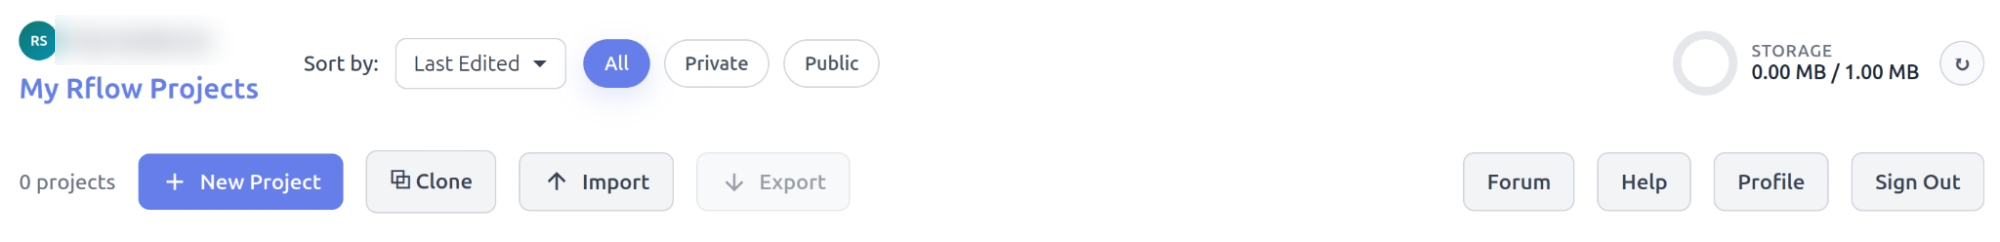
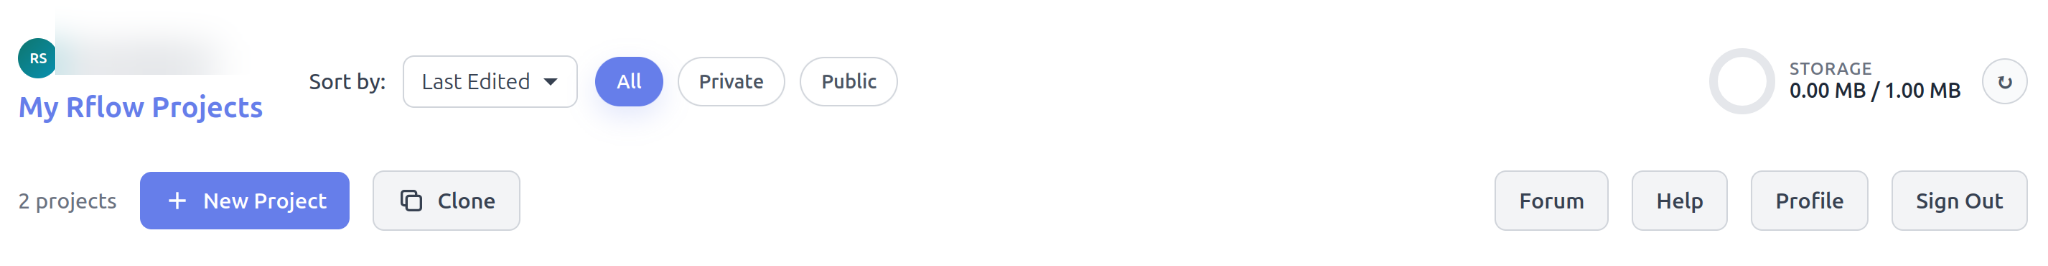
Built site for gh-pages

diff --git a/tutorials/tutorial_1b.html b/tutorials/tutorial_1b.html
@@ -199,6 +199,11 @@ ul.task-list li input[type="checkbox"] {
    
   <ul>
   <li><a href="#learning-objectives" id="toc-learning-objectives" class="nav-link active" data-scroll-target="#learning-objectives">Learning Objectives</a></li>
+  <li><a href="#step-1-clone-the-rflow-project" id="toc-step-1-clone-the-rflow-project" class="nav-link" data-scroll-target="#step-1-clone-the-rflow-project">Step 1: Clone the Rflow project</a></li>
+  <li><a href="#step-2-import-the-data" id="toc-step-2-import-the-data" class="nav-link" data-scroll-target="#step-2-import-the-data">Step 2: Import the data</a></li>
+  <li><a href="#step-3-calculate-summary-statistics" id="toc-step-3-calculate-summary-statistics" class="nav-link" data-scroll-target="#step-3-calculate-summary-statistics">Step 3: Calculate summary statistics</a></li>
+  <li><a href="#step-4-create-a-scatterplot" id="toc-step-4-create-a-scatterplot" class="nav-link" data-scroll-target="#step-4-create-a-scatterplot">Step 4: Create a scatterplot</a></li>
+  <li><a href="#step-5-save-your-workflow-and-export-an-r-script" id="toc-step-5-save-your-workflow-and-export-an-r-script" class="nav-link" data-scroll-target="#step-5-save-your-workflow-and-export-an-r-script">Step 5: Save your workflow and export an R script</a></li>
   </ul>
 </nav>
     </div>
@@ -224,9 +229,221 @@ ul.task-list li input[type="checkbox"] {
 </header>
 
 
-<section id="learning-objectives" class="level3">
-<h3 class="anchored" data-anchor-id="learning-objectives">Learning Objectives</h3>
-<p>Coming soon…</p>
+<section id="learning-objectives" class="level1">
+<h1>Learning Objectives</h1>
+<p>This is a very simple tutorial to illustrate how to display continuous data. The data is similar to that used in Tutorial 1A, but now you have information about the weight of the chicks on different days. Thus you can visualise how the weight of the chicks changes over time. Begin by downloading the data file <a href="data_workflows/chick_growth.csv" download="">chick_growth.csv</a> The dataset has 3 columns:</p>
+<ul>
+<li><code>weight</code> - the weight of the chick in grams</li>
+<li><code>time</code> - the time in days since the chick hatched</li>
+<li><code>diet</code> - the diet that the chick was fed (A to</li>
+</ul>
+</section>
+<section id="step-1-clone-the-rflow-project" class="level1">
+<h1>Step 1: Clone the Rflow project</h1>
+<p>Hit the “Clone” button in the top right corner of this page to create a copy of this Rflow tutorial 1b in your own account. You can then edit the project and run the code. Once it is cloned, go back to your Rflow projects and open the tutorial:</p>
+<div class="quarto-figure quarto-figure-center">
+<figure class="figure">
+<p><img src="figs/tutorial_1b_workflow.png" class="img-fluid quarto-figure quarto-figure-center figure-img" style="width:50.0%"></p>
+</figure>
+</div>
+<p>You can see that the project is very simple with just three nodes:</p>
+<ul>
+<li>Input CSV - imports the data from the CSV file</li>
+<li>Summary - calculates summary statistics for the data</li>
+<li>Scatterplot - creates a scatterplot of the data</li>
+</ul>
+</section>
+<section id="step-2-import-the-data" class="level1">
+<h1>Step 2: Import the data</h1>
+<p>The first node is an Input CSV node. Click on the node to open it and then click the “Choose file” button to select the <code>chick_growth.csv</code> file that you downloaded earlier. Once you have selected the file, click “Run” to import the data. The Input, Output and R Code panels are shown below:</p>
+<div class="quarto-layout-panel" data-layout-ncol="3">
+<div class="quarto-layout-row">
+<div class="quarto-layout-cell" style="flex-basis: 33.3%;justify-content: flex-start;">
+<div class="quarto-figure quarto-figure-center">
+<figure class="figure">
+<p><img src="figs/tutorial_1b_inputcsv_input_panel.png" class="img-fluid figure-img"></p>
+<figcaption>Input panel</figcaption>
+</figure>
+</div>
+</div>
+<div class="quarto-layout-cell" style="flex-basis: 33.3%;justify-content: flex-start;">
+<div class="quarto-figure quarto-figure-center">
+<figure class="figure">
+<p><img src="figs/tutorial_1b_inputcsv_output_panel.png" class="img-fluid figure-img"></p>
+<figcaption>Output panel</figcaption>
+</figure>
+</div>
+</div>
+<div class="quarto-layout-cell" style="flex-basis: 33.3%;justify-content: flex-start;">
+<div class="quarto-figure quarto-figure-center">
+<figure class="figure">
+<p><img src="figs/tutorial_1b_inputcsv_r_panel.png" class="img-fluid figure-img"></p>
+<figcaption>R code panel</figcaption>
+</figure>
+</div>
+</div>
+</div>
+</div>
+<p>You can see that the data has been imported successfully and is displayed in the Output panel. The R code used to import the data is shown in the R Code panel. You can also see that the data has 3 columns and 60 rows.</p>
+</section>
+<section id="step-3-calculate-summary-statistics" class="level1">
+<h1>Step 3: Calculate summary statistics</h1>
+<p>The next node is a Summary node. Click on the node to open it and then click “Run” to calculate summary statistics for the data. The Input, Output and R Code panels are shown below:</p>
+<div class="quarto-layout-panel" data-layout-ncol="3">
+<div class="quarto-layout-row">
+<div class="quarto-layout-cell" style="flex-basis: 33.3%;justify-content: flex-start;">
+<div class="quarto-figure quarto-figure-center">
+<figure class="figure">
+<p><img src="figs/tutorial_1b_summary_input_panel.png" class="img-fluid figure-img"></p>
+<figcaption>Input panel</figcaption>
+</figure>
+</div>
+</div>
+<div class="quarto-layout-cell" style="flex-basis: 33.3%;justify-content: flex-start;">
+<div class="quarto-figure quarto-figure-center">
+<figure class="figure">
+<p><img src="figs/tutorial_1b_summary_output_panel.png" class="img-fluid figure-img"></p>
+<figcaption>Output panel</figcaption>
+</figure>
+</div>
+</div>
+<div class="quarto-layout-cell" style="flex-basis: 33.3%;justify-content: flex-start;">
+<div class="quarto-figure quarto-figure-center">
+<figure class="figure">
+<p><img src="figs/tutorial_1b_summary_r_panel.png" class="img-fluid figure-img"></p>
+<figcaption>R code panel</figcaption>
+</figure>
+</div>
+</div>
+</div>
+</div>
+<p>Note that you have a mixture of continuous and categorical data; the <code>weight</code> is your response variable (continuous) whilst <code>time</code> and <code>diet</code> are your explanatory variables (continuous and categorical respectively).</p>
+</section>
+<section id="step-4-create-a-scatterplot" class="level1">
+<h1>Step 4: Create a scatterplot</h1>
+<p>The final node is a Scatterplot node. Click on the node to open it and then click “Run” to create a scatterplot of the data. The Input, Output and R Code panels are shown below:</p>
+<div class="quarto-layout-panel" data-layout-ncol="3">
+<div class="quarto-layout-row">
+<div class="quarto-layout-cell" style="flex-basis: 33.3%;justify-content: flex-start;">
+<div class="quarto-figure quarto-figure-center">
+<figure class="figure">
+<p><img src="figs/tutorial_1b_scatterplot_input_panel.png" class="img-fluid figure-img"></p>
+<figcaption>Input panel</figcaption>
+</figure>
+</div>
+</div>
+<div class="quarto-layout-cell" style="flex-basis: 33.3%;justify-content: flex-start;">
+<div class="quarto-figure quarto-figure-center">
+<figure class="figure">
+<p><img src="figs/tutorial_1b_scatterplot_output_panel.png" class="img-fluid figure-img"></p>
+<figcaption>Output panel</figcaption>
+</figure>
+</div>
+</div>
+<div class="quarto-layout-cell" style="flex-basis: 33.3%;justify-content: flex-start;">
+<div class="quarto-figure quarto-figure-center">
+<figure class="figure">
+<p><img src="figs/tutorial_1b_scatterplot_r_panel.png" class="img-fluid figure-img"></p>
+<figcaption>R code panel</figcaption>
+</figure>
+</div>
+</div>
+</div>
+</div>
+<p>Obviously, whilst this scatterplot shows the relationship between weight and time, it is not very informative as it ignores the chick diet. You can improve the scatterplot by adding a colour label. Modify the Scatterplot node by clicking on the “Colour variable” dropdown and selecting <code>diet</code>. In the “X axis label” box enter “Time”. In the “Y axis label” box enter “Chick Weight (g)”. Then click “Run” to update the scatterplot. The updated scatterplot is shown below:</p>
+<div class="quarto-layout-panel" data-layout-ncol="3">
+<div class="quarto-layout-row">
+<div class="quarto-layout-cell" style="flex-basis: 33.3%;justify-content: flex-start;">
+<div class="quarto-figure quarto-figure-center">
+<figure class="figure">
+<p><img src="figs/tutorial_1b_scatterplot2_input_panel.png" class="img-fluid figure-img"></p>
+<figcaption>Input panel</figcaption>
+</figure>
+</div>
+</div>
+<div class="quarto-layout-cell" style="flex-basis: 33.3%;justify-content: flex-start;">
+<div class="quarto-figure quarto-figure-center">
+<figure class="figure">
+<p><img src="figs/tutorial_1b_scatterplot2_output_panel.png" class="img-fluid figure-img"></p>
+<figcaption>Output panel</figcaption>
+</figure>
+</div>
+</div>
+<div class="quarto-layout-cell" style="flex-basis: 33.3%;justify-content: flex-start;">
+<div class="quarto-figure quarto-figure-center">
+<figure class="figure">
+<p><img src="figs/tutorial_1b_scatterplot2_r_panel.png" class="img-fluid figure-img"></p>
+<figcaption>R code panel</figcaption>
+</figure>
+</div>
+</div>
+</div>
+</div>
+<p>Finally, we know the chick weights are increasing over time, so it is sensible to add lines to the scatterplot to indicate this. As we are not fitting a statistical model to the data, we will simply use straight lines to connect each point to the next point. Click the “Connect points with lines” checkbox and then click “Run” to update the scatterplot. The final scatterplot is shown below:</p>
+<div class="quarto-layout-panel" data-layout-ncol="3">
+<div class="quarto-layout-row">
+<div class="quarto-layout-cell" style="flex-basis: 33.3%;justify-content: flex-start;">
+<div class="quarto-figure quarto-figure-center">
+<figure class="figure">
+<p><img src="figs/tutorial_1b_scatterplot3_input_panel.png" class="img-fluid figure-img"></p>
+<figcaption>Input panel</figcaption>
+</figure>
+</div>
+</div>
+<div class="quarto-layout-cell" style="flex-basis: 33.3%;justify-content: flex-start;">
+<div class="quarto-figure quarto-figure-center">
+<figure class="figure">
+<p><img src="figs/tutorial_1b_scatterplot3_output_panel.png" class="img-fluid figure-img"></p>
+<figcaption>Output panel</figcaption>
+</figure>
+</div>
+</div>
+<div class="quarto-layout-cell" style="flex-basis: 33.3%;justify-content: flex-start;">
+<div class="quarto-figure quarto-figure-center">
+<figure class="figure">
+<p><img src="figs/tutorial_1b_scatterplot3_r_panel.png" class="img-fluid figure-img"></p>
+<figcaption>R code panel</figcaption>
+</figure>
+</div>
+</div>
+</div>
+</div>
+<p>Whilst it is tempting to connect the points with fitted straight lines or curves, we generally recommend that you do not do this until you have fitted a statistical model to the data. This is because the fitted lines or curves may not be appropriate for the data and can be misleading.</p>
+</section>
+<section id="step-5-save-your-workflow-and-export-an-r-script" class="level1">
+<h1>Step 5: Save your workflow and export an R script</h1>
+<p>The Rflow workflow is autosaved every 30 seconds along with the R object <code>chick_dat</code>, and you can manually save the workflow at any time. If you want to use the workflow externally from Rflow, click on the <strong>Download R</strong> button. On most computers this will be downloaded to your “Downloads” folder. The following instructions are almost identical to those in Tutorial 1A, but are repeated here for completeness. You can run the R script in VS Code, Positron or RStudio.</p>
+<div class="tabset-margin-container"></div><div class="panel-tabset">
+<ul class="nav nav-tabs" role="tablist"><li class="nav-item" role="presentation"><a class="nav-link active" id="tabset-1-1-tab" data-bs-toggle="tab" data-bs-target="#tabset-1-1" role="tab" aria-controls="tabset-1-1" aria-selected="true" href="">VS Code</a></li><li class="nav-item" role="presentation"><a class="nav-link" id="tabset-1-2-tab" data-bs-toggle="tab" data-bs-target="#tabset-1-2" role="tab" aria-controls="tabset-1-2" aria-selected="false" href="">Positron</a></li><li class="nav-item" role="presentation"><a class="nav-link" id="tabset-1-3-tab" data-bs-toggle="tab" data-bs-target="#tabset-1-3" role="tab" aria-controls="tabset-1-3" aria-selected="false" href="">RStudio</a></li></ul>
+<div class="tab-content">
+<div id="tabset-1-1" class="tab-pane active" role="tabpanel" aria-labelledby="tabset-1-1-tab">
+<ol type="1">
+<li>Copy the downloaded R script to your working folder (directory). Also ensure that the <code>chick_growth.csv</code> file is in the same working folder.</li>
+<li>Open VS Code and click on the Extensions button on the left sidebar. Search for “R Extension for Visual Studio Code” and install the R extension.</li>
+<li>Open the R script in VS Code. You should see the R code that was generated by Rflow.</li>
+<li>The R script uses the <code>ggplot2</code> package for plotting. You may need to install this into R if you have not already done so, via <code>install.packages("ggplot2")</code>.</li>
+<li>You can run the entire script by clicking on the “Run” button at the top of the VS Code window, or you can run individual lines or sections of code by highlighting them and pressing <code>Ctrl + Enter</code> (or <code>Cmd + Enter</code> on Mac). The output will be displayed in the R terminal within VS Code.</li>
+</ol>
+</div>
+<div id="tabset-1-2" class="tab-pane" role="tabpanel" aria-labelledby="tabset-1-2-tab">
+<ol type="1">
+<li>Copy the downloaded R script to your working folder (directory). Also ensure that the <code>chick_growth.csv</code> file is in the same working folder.</li>
+<li>Open Positron and click on the “File” menu, then select “Open File” and navigate to your working folder to open the R script.</li>
+<li>The R script uses the <code>ggplot2</code> package for plotting. You may need to install this into R if you have not already done so, via <code>install.packages("ggplot2")</code>. Recent versions of Positron should detect if this needs installing and prompt you to do so.</li>
+<li>You can run the entire script by clicking on the “Source” button at the top of the Positron window, or you can run individual lines or sections of code by highlighting them and pressing <code>Ctrl + Enter</code> (or <code>Cmd + Enter</code> on Mac). The output will be displayed in the R console within Positron.</li>
+</ol>
+</div>
+<div id="tabset-1-3" class="tab-pane" role="tabpanel" aria-labelledby="tabset-1-3-tab">
+<ol type="1">
+<li>Copy the downloaded R script to your working folder (directory). Also ensure that the <code>chick_growth.csv</code> file is in the same working folder.</li>
+<li>Open RStudio and click on the “File” menu, then select “Open File” and navigate to your working folder to open the R script.</li>
+<li>The R script uses the <code>ggplot2</code> package for plotting. Recent versions of RStudio should detect if this needs installing and prompt you to do so. If not, you can install it manually via <code>install.packages("ggplot2")</code>.</li>
+<li>RStudio needs to know in which folder it is operating. You can set the working directory by clicking on “Session” &gt; “Set Working Directory” &gt; “Choose Directory…” and selecting your working folder. Another option is to create an RStudio project in your working folder, which will automatically set the working directory to that folder. If you obtain a <code>File not found</code> when trying to import the <code>chick_growth.csv</code> file, this is likely the cause. You can check the current working directory by running <code>getwd()</code> in the R console.</li>
+<li>Run the entire script by clicking on the “Source” button at the top of the RStudio window, or you can run individual lines or sections of code by highlighting them and pressing <code>Ctrl + Enter</code> (or <code>Cmd + Enter</code> on Mac). The output will be displayed in the R console within RStudio.</li>
+</ol>
+</div>
+</div>
+</div>
 
 
 </section>

diff --git a/tutorials/interface.html b/tutorials/interface.html
@@ -260,11 +260,10 @@ ul.task-list li input[type="checkbox"] {
 <ul>
 <li><strong>New Project</strong>: Create a new Rflow project. You will be prompted to enter a name for your project, a short description, and whether you want it to be a private project (default) or public project.</li>
 <li><strong>Clone</strong>: This allows you to clone an existing Public Rflow project, or Tutorial project, into your own Rflow account where you can edit it. You cannot directly edit Public Rflow projects or Tutorial projects. When you Clone a project you also import that project’s data, as well as its workflow.</li>
-<li><strong>Import</strong>: This allows you to import an Rflow project format file (.json format) into your Rflow account. Rflow Project Format files contain the workflow structure, but <strong>not</strong> the data. They can be useful if you want to share a workflow with another Rflow user without making it public.</li>
-<li><strong>Export</strong>: The reverse of Import, this generates an Rflow Project Format File that you can share with another Rflow user (e.g.&nbsp;via email). Again, the data is not included in the exported file, only the workflow structure, so you have to share any data separately.</li>
 <li><strong>Forum</strong>: Provides access to the Rflow Community Forum for asking questions, sharing ideas, and getting help from other Rflow users. Note: this is currently hosted on Discourse, and you will need to create a free Discourse account to post questions or comments. You can also browse the forum without an account.</li>
 <li><strong>Help</strong>: Access the main Rflow documentation pages</li>
-<li><strong>Account</strong>: Access your Rflow account settings, including changing your password, upgrade to a paid Standard account (or downgrade to a Free account).</li>
+<li><strong>Profile</strong>: Access your Rflow account settings, including changing your password, upgrade to a paid Standard account (or downgrade to a Free account).</li>
+<li><strong>Sign out</strong>: Sign out of Rflow. You will need to sign back in to continue working on your projects.</li>
 </ul>
 <p>At the top right is an indicator of your current disk usage relative to your account’s disk quota (press the refresh button to update information).</p>
 </section>
@@ -298,7 +297,7 @@ ul.task-list li input[type="checkbox"] {
 <p>Allows you to select Rflow workflow nodes from dropdown menus. These are grouped into:</p>
 <section id="data-import-export-nodes" class="level3">
 <h3 class="anchored" data-anchor-id="data-import-export-nodes">Data import / export nodes</h3>
-<p>You will typically start your workflow with a data import node, which allows you to import data from a CSV file, or from an Rflow project dataset. You can also export your workflow results to a CSV file, or to an Rflow project dataset.</p>
+<p>You will typically start your workflow with a data import node, which allows you to import data from a CSV file. If you Clone an existing Rflow project, you may find that the data has already been imported. <strong>Note</strong> : if you attempt to re-run a data import node it will expect to have access to the original CSV file.</p>
 </section>
 <section id="models" class="level3">
 <h3 class="anchored" data-anchor-id="models">Models</h3>

diff --git a/terms_and_conditions.html b/terms_and_conditions.html
@@ -327,7 +327,7 @@ ul.task-list li input[type="checkbox"] {
 <p>11.1 RSDSL owns or is the licensee of all Intellectual Property Rights in the Service, the Website, and all material published on them, including without limitation trademarks, logos, graphics, photographs, designs, animations, videos, documentation, R scripts generated by the platform, and the Rflow application code.</p>
 <p>11.2 Rflow is a registered trademark of RS Data Science Limited. No licence to use the Rflow trademark is granted by these Terms or by Your use of the Service.</p>
 <p>11.3 You may not alter, remove, or obscure any copyright notices, trademark legends, or other proprietary markings on any material from the Service.</p>
-<p>11.4 You may download Projects in JSON format and annotated R scripts in R format for Your own personal, non-commercial use. These exported files remain Your Content (subject to clause 10.1) but the underlying R code templates, node logic, and structural elements generated by Rflow remain the property of RSDSL.</p>
+<p>11.4 You may download annotated R scripts in R format for Your own personal, non-commercial use. These exported files remain Your Content (subject to clause 10.1) but the underlying R code templates, node logic, and structural elements generated by Rflow remain the property of RSDSL.</p>
 <p>11.5 You must not use any part of the material on the Website or Service for commercial purposes without obtaining a written licence from RSDSL.</p>
 <table class="caption-top table">
 <tbody>

diff --git a/tutorials/tutorial_1a.html b/tutorials/tutorial_1a.html
@@ -289,7 +289,7 @@ ul.task-list li input[type="checkbox"] {
 <p><img src="figs/tutorial_1a_rflow_clone.png" class="img-fluid quarto-figure quarto-figure-center figure-img" style="width:25.0%"></p>
 </figure>
 </div>
-<p>After clicking the “Clone” button, click on the “My Projects” button to display your own Rflow projects. You should see the tutorial listed as “Tutorial 1A (Copy)”. You can click its Edit button if you want to change its name or description. When ready, click on the “Open” button and you should see the pre-prepared workflow:</p>
+<p>After clicking the “Clone” button, click on the “Back to My Projects” button to display your own Rflow projects. You should see the tutorial listed as “Tutorial 1A (Copy)”. You can click its Edit button if you want to change its name or description. When ready, click on the “Open” button and you should see the pre-prepared workflow:</p>
 <div class="quarto-figure quarto-figure-center">
 <figure class="figure">
 <p><img src="figs/tutorial_1a_workflow.png" class="img-fluid quarto-figure quarto-figure-center figure-img" style="width:50.0%"></p>

diff --git a/faq/index.html b/faq/index.html
@@ -271,7 +271,7 @@ ul.task-list li input[type="checkbox"] {
 </div>
 <div id="callout-5" class="callout-5-contents callout-collapse collapse">
 <div class="callout-body-container callout-body">
-<p>No.&nbsp;If you want to export your Rflow workflow for use in an IDE such as VS Code, RStudio or Positron, you need to use the “Download R Code” button in the Rflow workflow editor. This will give you a fully reproducible R script that you can run in any R IDE. The “Export” button on the Rflow projects page is for sharing your workflow with specific other Rflow users if you do not want to make it public.</p>
+<p>No.&nbsp;If you want to export your Rflow workflow for use in an IDE such as VS Code, RStudio or Positron, you need to use the “Download R Code” button in the Rflow workflow editor. This will give you a fully reproducible R script that you can run in any R IDE.</p>
 </div>
 </div>
 </div>

diff --git a/docs/pricing.html b/docs/pricing.html
@@ -166,11 +166,6 @@ ul.task-list li input[type="checkbox"] {
 <p>Compare Rflow plans and choose the option that suits your work.</p>
 <div class="pricing-comparison">
 <table class="caption-top table">
-<colgroup>
-<col style="width: 33%">
-<col style="width: 33%">
-<col style="width: 33%">
-</colgroup>
 <thead>
 <tr class="header">
 <th>Feature</th>
@@ -186,7 +181,7 @@ ul.task-list li input[type="checkbox"] {
 </tr>
 <tr class="even">
 <td>Projects</td>
-<td>Up to 3 (1 private, 2 public)</td>
+<td>Up to 2</td>
 <td>Unlimited public and private</td>
 </tr>
 <tr class="odd">
